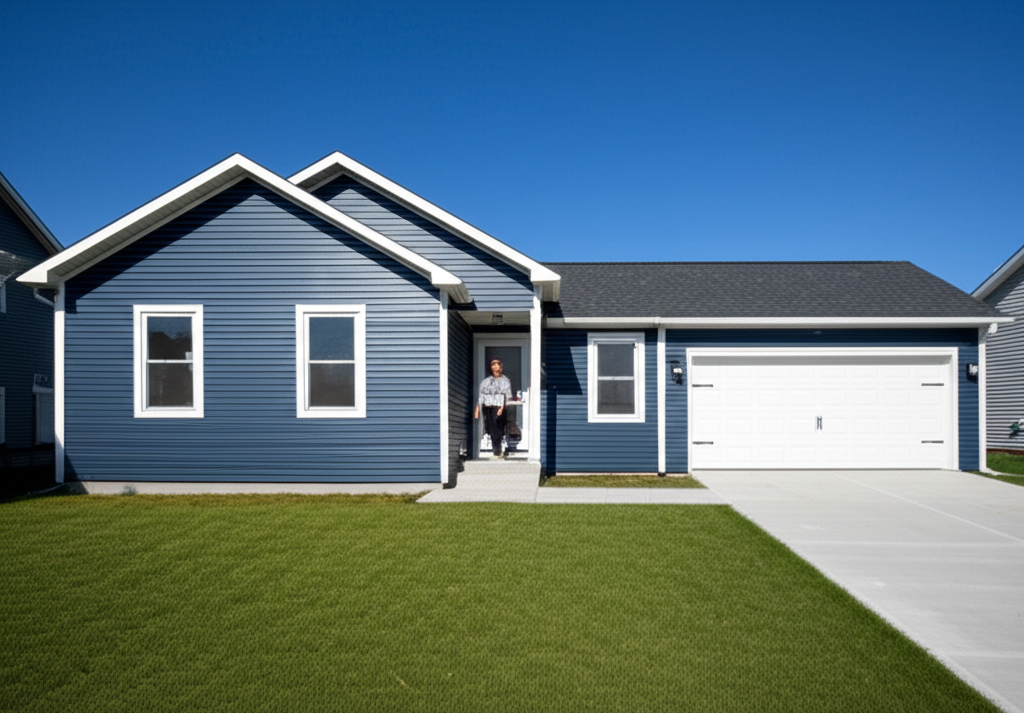
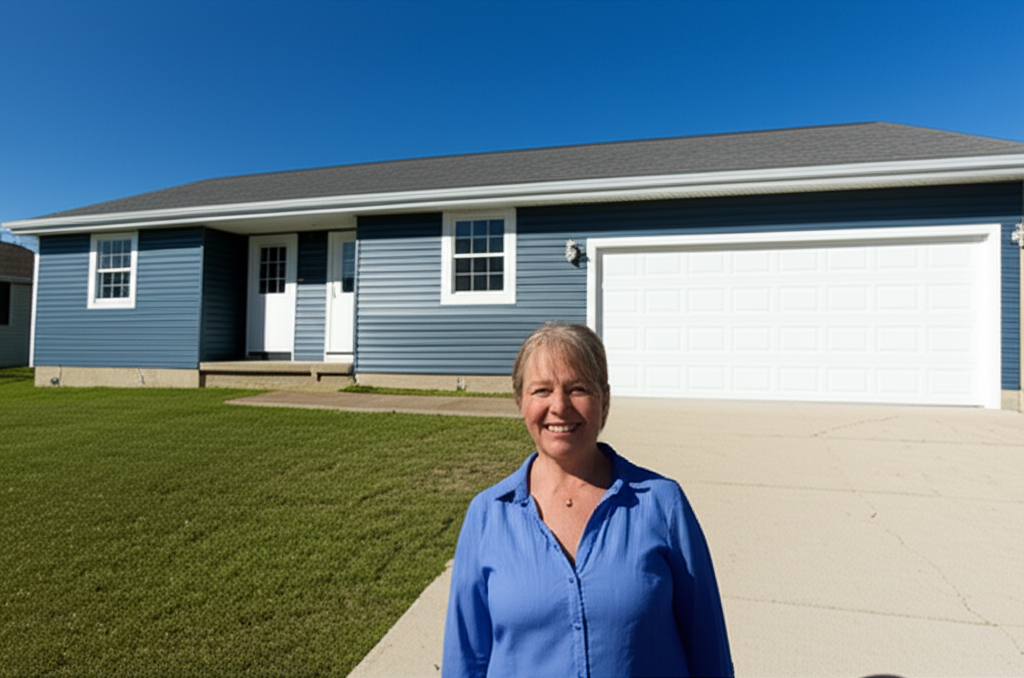
Add image-to-image editing for consistent before/after pairs
Updated generate-project-images.js to:
- Generate 'before' image first
- Pass it back to Gemini to edit only roof/siding for 'after'
- Preserves house structure (windows, doors, landscaping)

Regenerated all before/after images with consistent houses.

diff --git a/scripts/generate-project-images.js b/scripts/generate-project-images.js
@@ -1,6 +1,6 @@
 /**
  * Guardian Roofing - Project Image Generator
- * Uses Gemini 3 Pro Image API to generate before/after and project images
+ * Uses Gemini 2.0 Flash Image API with image-to-image editing for consistent before/after pairs
  *
  * Usage: npm run generate-images
  */
@@ -20,65 +20,88 @@ dotenv.config({ path: path.join(__dirname, "..", ".env.local") });
 const API_KEY = process.env.Gemini_API_KEY;
 const OUTPUT_DIR = path.join(__dirname, "..", "images");
 
-// Image generation configurations
-const imageConfigs = [
+// Before/After pairs - after images are generated by editing the before image
+const beforeAfterPairs = [
   {
-    filename: "before-after-1-before.webp",
-    prompt: `Professional real estate photography of a two-story brick colonial style house with a severely hail-damaged roof. Key details:
+    id: "1",
+    description: "Brick colonial - roof replacement",
+    before: {
+      filename: "before-after-1-before.webp",
+      prompt: `Professional real estate photography of a two-story brick colonial style house with a severely damaged roof. Key details:
 - Classic red-brown brick exterior with white painted window trim
 - Symmetrical facade with centered front door and covered porch with white columns
-- Roof showing significant storm damage: missing shingles, exposed underlayment, dented metal vents
-- Mature green lawn with foundation shrubs
+- 6 windows visible on front (3 upper, 3 lower), white shutters
+- Roof showing significant storm damage: missing shingles, exposed underlayment, visible wear
+- Concrete walkway leading to front steps
+- Mature green lawn with foundation shrubs (boxwood hedges)
 - Overcast gray sky suggesting recent storm
 - NO people in the image
 - Wide angle shot showing complete front facade
-- Photorealistic, high-quality architectural photography style`,
-    description: "Before - Brick colonial with hail-damaged roof"
+- Photorealistic, high-quality architectural photography style`
+    },
+    after: {
+      filename: "before-after-1-after.webp",
+      editPrompt: `Edit this house image to show a completed roof renovation:
+
+CHANGE ONLY:
+- Replace the damaged roof with a brand new charcoal gray architectural shingle roof in pristine condition
+- Change the sky to bright sunny blue with a few white clouds
+- Add a happy middle-aged Caucasian male homeowner (45-55 years old) standing in the front yard, arms crossed proudly, wearing a casual navy polo shirt, natural realistic appearance
+
+KEEP EXACTLY THE SAME:
+- The brick exterior color and pattern
+- All windows (same size, position, white trim, shutters)
+- The front door and porch with white columns
+- The walkway and front steps
+- The lawn and foundation shrubs
+- The overall house shape and proportions
+
+This should look like the same house photographed after professional roof work was completed.`
+    }
   },
   {
-    filename: "before-after-1-after.webp",
-    prompt: `Professional real estate photography of a two-story brick colonial style house with a brand new roof installation. Key details:
-- SAME classic red-brown brick exterior with white painted window trim (identical to before image)
-- Symmetrical facade with centered front door and covered porch with white columns
-- Beautiful NEW charcoal gray architectural shingle roof, pristine condition
-- Mature green lawn with foundation shrubs
-- Bright sunny day with blue sky
-- Happy middle-aged Caucasian male homeowner (45-55 years old) standing in driveway, arms crossed, proud smile, wearing casual polo shirt
-- Natural realistic face with no blemishes or artifacts
-- Wide angle shot showing complete front facade
-- Photorealistic, high-quality architectural photography style`,
-    description: "After - Same brick colonial with new roof + male homeowner"
-  },
-  {
-    filename: "before-after-2-before.webp",
-    prompt: `Professional real estate photography of a single-story ranch style house with damaged vinyl siding. Key details:
-- Low-profile ranch home with attached two-car garage on the right side
-- Damaged beige/cream colored vinyl siding: faded sections, warped panels, visible cracks, storm damage marks
-- Simple rectangular footprint with front-facing windows
+    id: "2",
+    description: "Ranch house - siding replacement",
+    before: {
+      filename: "before-after-2-before.webp",
+      prompt: `Professional real estate photography of a single-story ranch style house with damaged vinyl siding. Key details:
+- Low-profile ranch home, approximately 1400 sq ft appearance
+- Attached two-car garage on the right side with white garage door
+- Damaged beige/cream colored vinyl siding: faded sections, warped panels, storm damage
+- 4 front-facing windows with simple white frames
+- Dark gray/charcoal asphalt shingle roof in decent condition
 - Concrete driveway leading to garage
-- Basic lawn and minimal landscaping
+- Simple lawn, minimal landscaping
 - Overcast cloudy day
 - NO people in the image
-- Wide angle shot showing complete front facade
-- Photorealistic, high-quality architectural photography style`,
-    description: "Before - Ranch with damaged beige siding"
-  },
-  {
-    filename: "before-after-2-after.webp",
-    prompt: `Professional real estate photography of a single-story ranch style house with beautiful new siding. Key details:
-- SAME low-profile ranch home with attached two-car garage on the right side (identical layout to before image)
-- Brand NEW modern blue-gray vinyl siding, professionally installed, pristine condition
-- Fresh white trim around windows and garage door
-- Simple rectangular footprint with front-facing windows
-- Concrete driveway leading to garage
-- Well-maintained lawn
-- Bright sunny day with blue sky
-- Happy middle-aged Caucasian female homeowner (40-50 years old) standing near front door, warm genuine smile, wearing casual blouse
-- Natural realistic face with no blemishes or artifacts
-- Wide angle shot showing complete front facade
-- Photorealistic, high-quality architectural photography style`,
-    description: "After - Same ranch with new blue-gray siding + female homeowner"
-  },
+- Wide angle shot showing complete front facade including garage
+- Photorealistic, high-quality architectural photography style`
+    },
+    after: {
+      filename: "before-after-2-after.webp",
+      editPrompt: `Edit this house image to show completed siding renovation:
+
+CHANGE ONLY:
+- Replace the damaged beige siding with brand new modern blue-gray vinyl siding, professionally installed
+- Add fresh white trim around all windows and the garage door
+- Change the sky to bright sunny blue
+- Add a happy middle-aged Caucasian female homeowner (40-50 years old) standing near the front of the house, warm genuine smile, wearing a casual light blue blouse, natural realistic appearance
+
+KEEP EXACTLY THE SAME:
+- The house shape and footprint
+- The garage position and door
+- All window positions and sizes
+- The roof (keep the same dark gray shingles)
+- The driveway
+- The lawn area
+
+This should look like the same house photographed after professional siding installation.`
+    }
+  }
+];
+
+// Standalone project images (not before/after pairs)
+const standaloneImages = [
   {
     filename: "project-10.webp",
     prompt: `Professional photography of an emergency storm damage roof repair scene at a residential home. Key details:
@@ -95,42 +118,29 @@ const imageConfigs = [
   }
 ];
 
-async function generateImage(ai, config) {
-  console.log(`\n📸 Generating: ${config.filename}`);
-  console.log(`   ${config.description}`);
+async function generateImage(ai, prompt, filename, description) {
+  console.log(`\n📸 Generating: ${filename}`);
+  console.log(`   ${description}`);
 
   try {
     const response = await ai.models.generateContent({
       model: "gemini-2.0-flash-exp-image-generation",
-      contents: config.prompt,
+      contents: prompt,
       config: {
         responseModalities: ["image", "text"],
       }
     });
 
-    // Find the image part in the response
-    let imageData = null;
-    if (response.candidates && response.candidates.length > 0) {
-      for (const part of response.candidates[0].content?.parts || []) {
-        if (part.inlineData?.mimeType?.startsWith("image/")) {
-          imageData = part.inlineData;
-          break;
-        }
-      }
-    }
-
+    const imageData = extractImageData(response);
     if (imageData) {
       const imageBuffer = Buffer.from(imageData.data, "base64");
-      const outputPath = path.join(OUTPUT_DIR, config.filename);
+      const outputPath = path.join(OUTPUT_DIR, filename);
       fs.writeFileSync(outputPath, imageBuffer);
       console.log(`   ✅ Saved: ${outputPath}`);
       return true;
     } else {
-      console.error(`   ❌ No image data in response for ${config.filename}`);
-      // Log the response for debugging
-      if (response.text) {
-        console.log("   Response text:", response.text.slice(0, 200));
-      }
+      console.error(`   ❌ No image data in response for ${filename}`);
+      logResponseText(response);
       return false;
     }
   } catch (error) {
@@ -142,9 +152,74 @@ async function generateImage(ai, config) {
   }
 }
 
+async function generateEditedImage(ai, inputImagePath, editPrompt, outputFilename, description) {
+  console.log(`\n🎨 Editing: ${outputFilename}`);
+  console.log(`   ${description}`);
+  console.log(`   Using input: ${path.basename(inputImagePath)}`);
+
+  try {
+    // Read the before image as base64
+    const imageBuffer = fs.readFileSync(inputImagePath);
+    const base64Image = imageBuffer.toString("base64");
+
+    // Determine mime type from extension
+    const ext = path.extname(inputImagePath).toLowerCase();
+    const mimeType = ext === ".webp" ? "image/webp" : ext === ".png" ? "image/png" : "image/jpeg";
+
+    const response = await ai.models.generateContent({
+      model: "gemini-2.0-flash-exp-image-generation",
+      contents: [
+        {
+          parts: [
+            { inlineData: { mimeType, data: base64Image } },
+            { text: editPrompt }
+          ]
+        }
+      ],
+      config: {
+        responseModalities: ["image", "text"],
+      }
+    });
+
+    const imageData = extractImageData(response);
+    if (imageData) {
+      const outputBuffer = Buffer.from(imageData.data, "base64");
+      const outputPath = path.join(OUTPUT_DIR, outputFilename);
+      fs.writeFileSync(outputPath, outputBuffer);
+      console.log(`   ✅ Saved: ${outputPath}`);
+      return true;
+    } else {
+      console.error(`   ❌ No image data in response for ${outputFilename}`);
+      logResponseText(response);
+      return false;
+    }
+  } catch (error) {
+    console.error(`   ❌ Error: ${error.message}`);
+    return false;
+  }
+}
+
+function extractImageData(response) {
+  if (response.candidates && response.candidates.length > 0) {
+    for (const part of response.candidates[0].content?.parts || []) {
+      if (part.inlineData?.mimeType?.startsWith("image/")) {
+        return part.inlineData;
+      }
+    }
+  }
+  return null;
+}
+
+function logResponseText(response) {
+  if (response.text) {
+    console.log("   Response text:", response.text.slice(0, 200));
+  }
+}
+
 async function main() {
   console.log("═══════════════════════════════════════════════════════════");
   console.log("   Guardian Roofing - Project Image Generator");
+  console.log("   (with image-to-image editing for consistent before/after)");
   console.log("═══════════════════════════════════════════════════════════");
 
   // Verify API key
@@ -155,7 +230,8 @@ async function main() {
   }
 
   console.log(`\n📁 Output directory: ${OUTPUT_DIR}`);
-  console.log(`📝 Images to generate: ${imageConfigs.length}`);
+  console.log(`📝 Before/After pairs: ${beforeAfterPairs.length}`);
+  console.log(`📝 Standalone images: ${standaloneImages.length}`);
 
   // Ensure output directory exists
   if (!fs.existsSync(OUTPUT_DIR)) {
@@ -165,22 +241,71 @@ async function main() {
   // Initialize Gemini AI
   const ai = new GoogleGenAI({ apiKey: API_KEY });
 
-  // Generate images sequentially (to avoid rate limits)
   let successCount = 0;
   let failCount = 0;
 
-  for (const config of imageConfigs) {
-    const success = await generateImage(ai, config);
-    if (success) {
+  // Generate before/after pairs
+  for (const pair of beforeAfterPairs) {
+    console.log(`\n─── Pair ${pair.id}: ${pair.description} ───`);
+
+    // Step 1: Generate the "before" image
+    const beforeSuccess = await generateImage(
+      ai,
+      pair.before.prompt,
+      pair.before.filename,
+      `Before - ${pair.description}`
+    );
+
+    if (beforeSuccess) {
       successCount++;
+
+      // Wait before editing
+      console.log("   ⏳ Waiting 3 seconds before generating 'after' version...");
+      await new Promise(resolve => setTimeout(resolve, 3000));
+
+      // Step 2: Generate the "after" image by editing the "before" image
+      const beforePath = path.join(OUTPUT_DIR, pair.before.filename);
+      const afterSuccess = await generateEditedImage(
+        ai,
+        beforePath,
+        pair.after.editPrompt,
+        pair.after.filename,
+        `After - ${pair.description}`
+      );
+
+      if (afterSuccess) {
+        successCount++;
+      } else {
+        failCount++;
+      }
     } else {
-      failCount++;
+      failCount += 2; // Count both before and after as failed
+      console.log(`   ⚠  Skipping 'after' image since 'before' failed`);
     }
 
-    // Add delay between requests to respect rate limits
-    if (imageConfigs.indexOf(config) < imageConfigs.length - 1) {
-      console.log("   ⏳ Waiting 3 seconds before next image...");
+    // Delay between pairs
+    if (beforeAfterPairs.indexOf(pair) < beforeAfterPairs.length - 1) {
+      console.log("   ⏳ Waiting 3 seconds before next pair...");
       await new Promise(resolve => setTimeout(resolve, 3000));
+    }
+  }
+
+  // Generate standalone images
+  if (standaloneImages.length > 0) {
+    console.log("\n─── Standalone Images ───");
+
+    for (const config of standaloneImages) {
+      const success = await generateImage(ai, config.prompt, config.filename, config.description);
+      if (success) {
+        successCount++;
+      } else {
+        failCount++;
+      }
+
+      if (standaloneImages.indexOf(config) < standaloneImages.length - 1) {
+        console.log("   ⏳ Waiting 3 seconds before next image...");
+        await new Promise(resolve => setTimeout(resolve, 3000));
+      }
     }
   }
 
